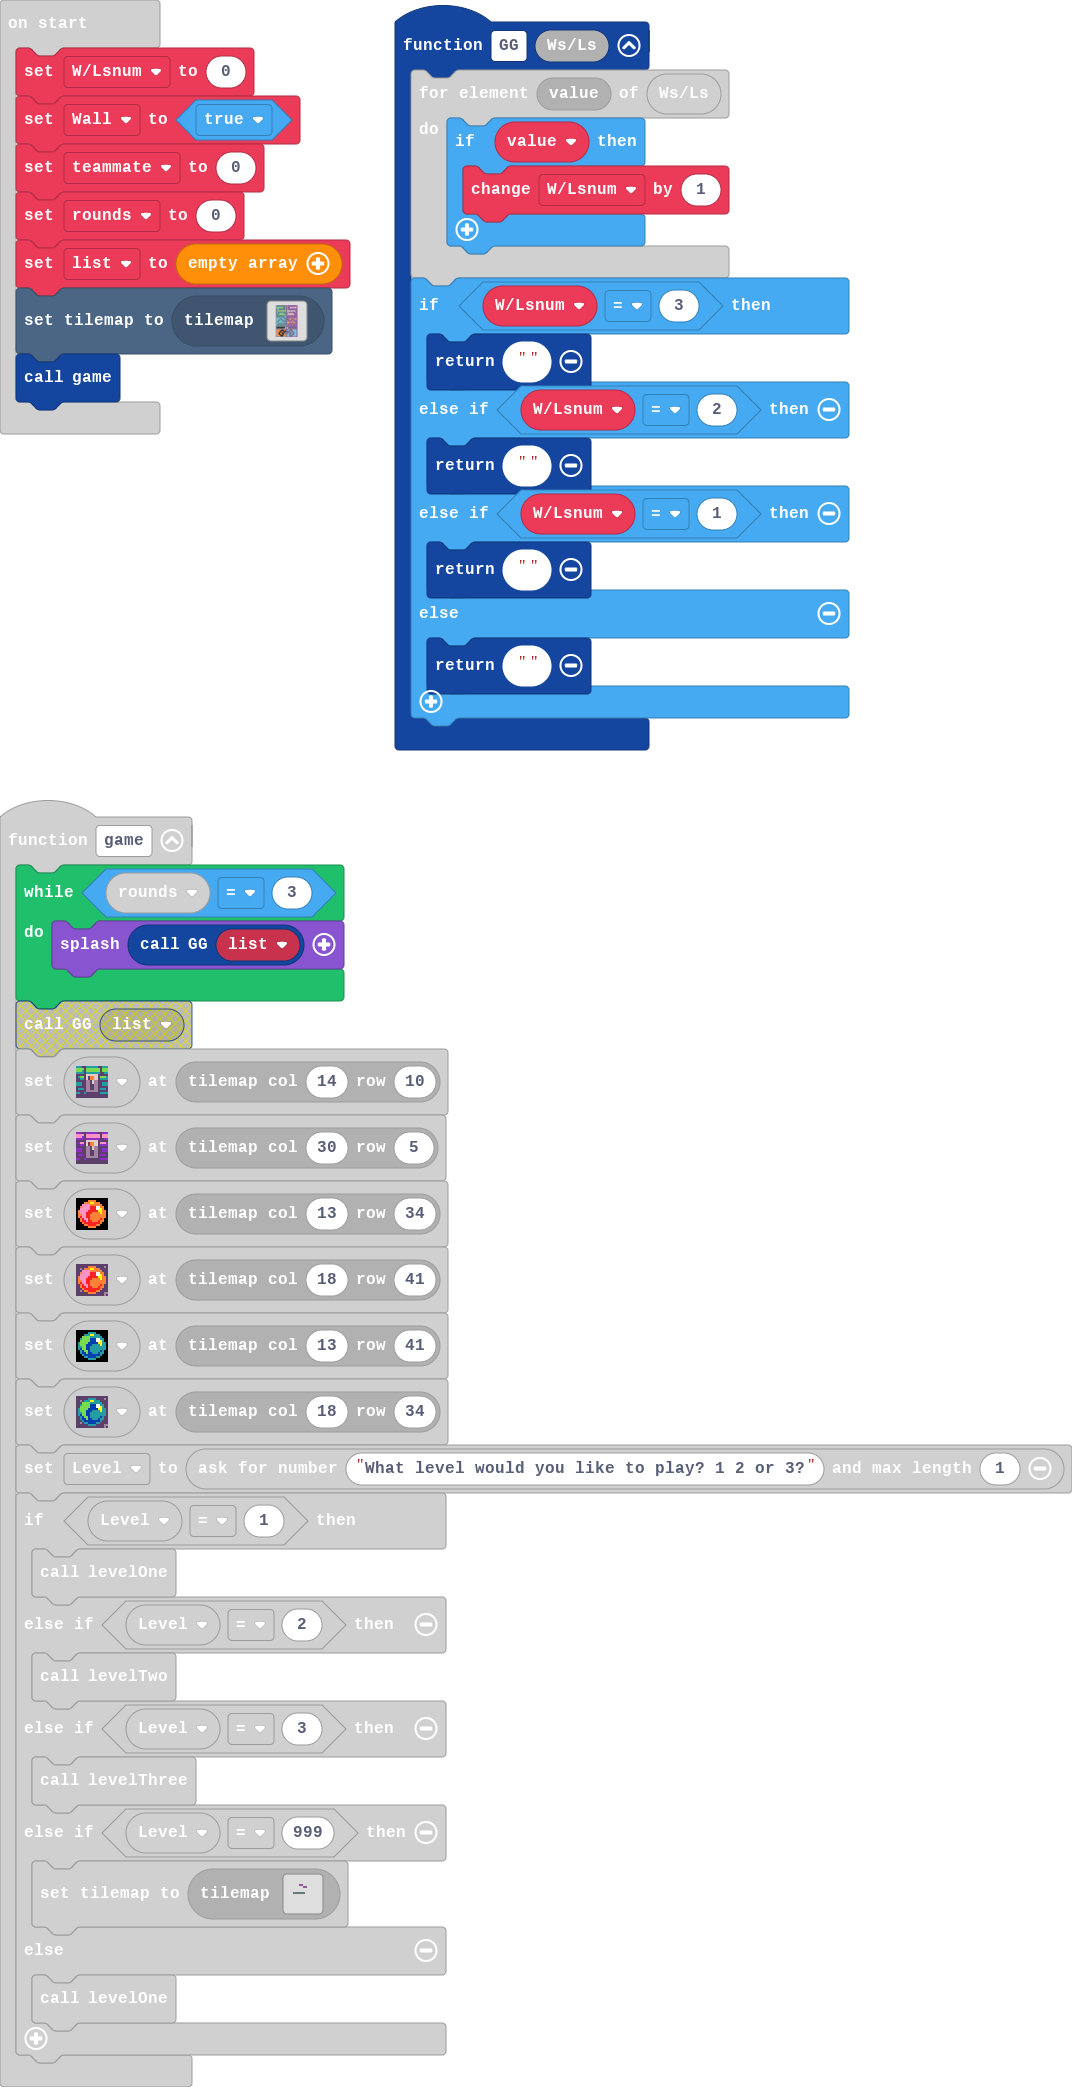
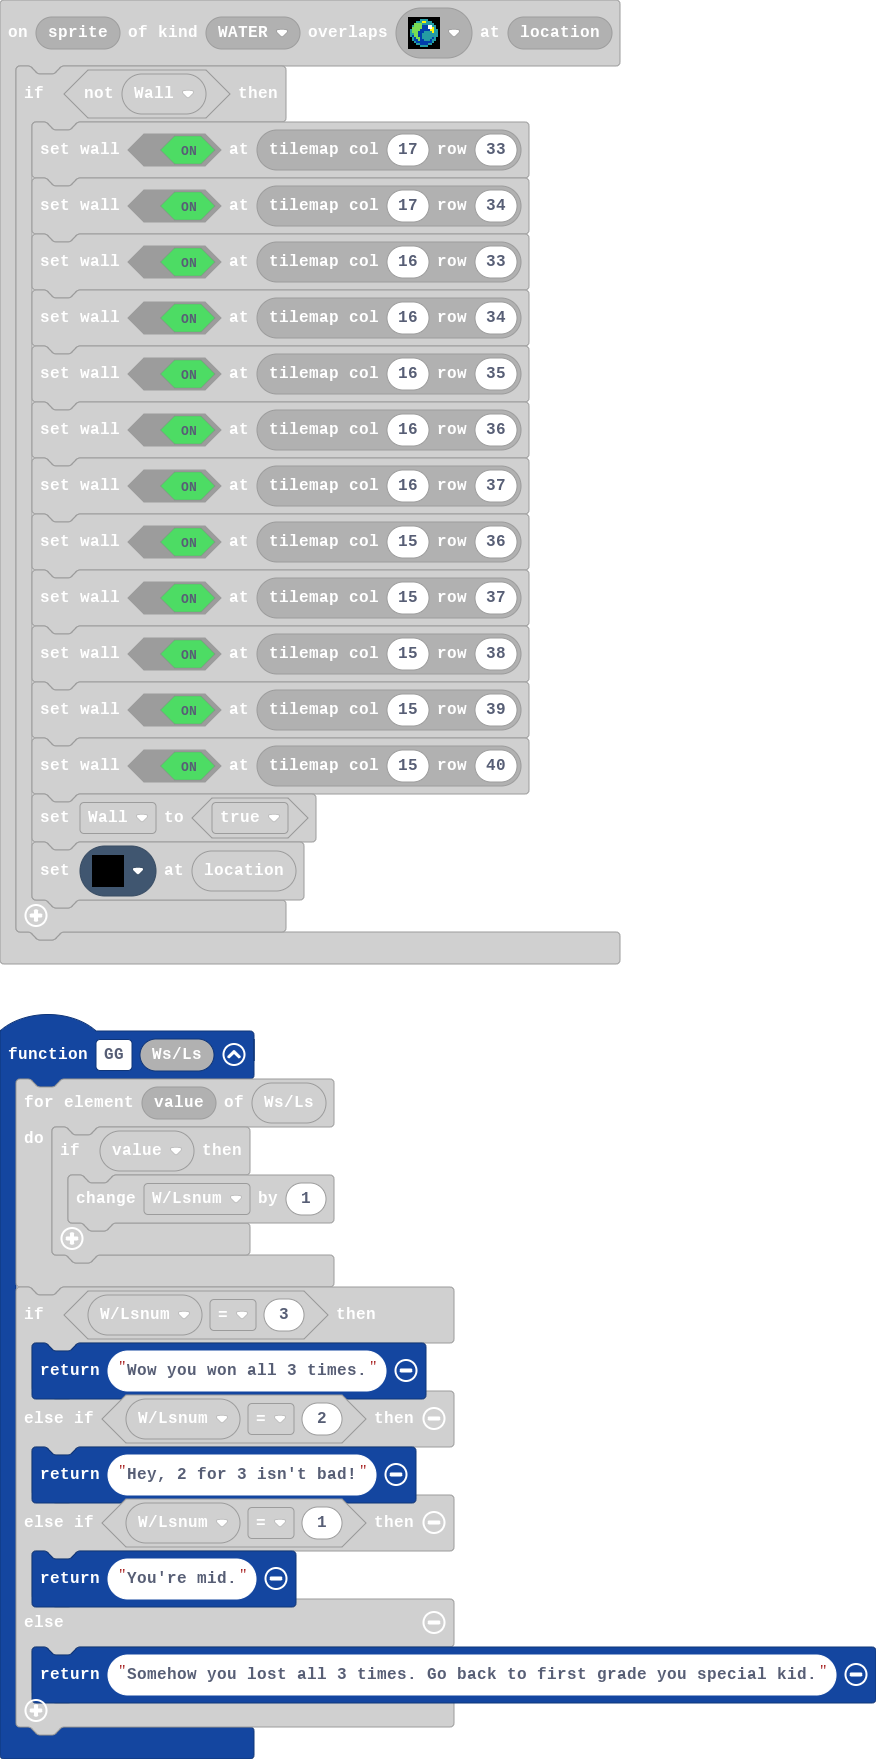
fixed some doodly doos

diff --git a/tilemap.g.ts b/tilemap.g.ts
@@ -243,57 +243,6 @@ namespace myTiles {
 . . . . . . . . . . . . . . . . 
 . . . . . . . . . . . . . . . . 
 `, [myTiles.transparency16], TileScale.Sixteen);
-            case "level5":
[1 lines of base64/hex data omitted]
-22222222222222222222222222222222
-2..............22..............2
-2..............22..............2
-2222....222....22....222....2222
-22222222222....22....22222222222
-2..2...........22..............2
-2..2...........22..............2
-2..2...........22..............2
-2..22..22..2222222222..22..22..2
-2..22222222222222222222222222..2
-2..............22.2............2
-2..............22.2............2
-2.....2....2...22.2.2....2.....2
-2....22222222.2222222222222....2
-2...2222222222.22.2222222222...2
-22222222222222222222222222222222
-22222222222222222222222222222222
-...............22..............2
-...............22..............2
-.222222222.....22..2.........222
-.2.............22..2222222222222
-.2.............22..............2
-.2.....2.......22..............2
-.2....222......22..............2
-.2...22222.....22..............2
-.2..2222222....22...2222222222.2
-.2.22222222222222....222222222.2
-.2.............22............2.2
-.2.............22..............2
-...............22....2...2.....2
-...............22....2...2...2.2
-22222222222222222222222222222222
-22222222222222222222222222222222
-2.............2222.............2
-2.............2222.............2
-22222222222222222222222222222222
-22222222222222222222222222222222
-2............222222............2
-2..............22..............2
-2..............22..............2
-2..............22..............2
-2.............2222.............2
-2............222222............2
-2.......22...222222...22.......2
-2..............22..............2
-2..............22..............2
-2..............22..............2
-22222222222222222222222222222222
-`, [myTiles.transparency16,sprites.dungeon.greenOuterNorthWest,sprites.dungeon.greenOuterWest0,sprites.dungeon.greenOuterSouthEast,sprites.dungeon.greenOuterNorth0,sprites.dungeon.stairWest,sprites.dungeon.greenInnerSouthWest,sprites.skillmap.islandTile4,sprites.dungeon.greenOuterSouth0,sprites.dungeon.hazardWater,sprites.builtin.brick,sprites.dungeon.hazardLava0,sprites.dungeon.hazardLava1,sprites.dungeon.greenSwitchUp,sprites.dungeon.stairSouth,sprites.dungeon.greenOuterNorthEast,sprites.dungeon.greenOuterEast0,sprites.dungeon.greenOuterSouthWest,sprites.dungeon.purpleOuterNorthWest,sprites.dungeon.purpleOuterWest0,sprites.dungeon.purpleOuterSouthEast,sprites.dungeon.purpleOuterNorth1,sprites.dungeon.floorLight2,sprites.dungeon.purpleInnerNorthWest,sprites.dungeon.stairNorth,sprites.dungeon.purpleOuterSouth0,sprites.dungeon.stairEast,sprites.dungeon.purpleSwitchUp,sprites.dungeon.purpleOuterNorthEast,sprites.dungeon.purpleOuterEast0,sprites.dungeon.purpleOuterSouthWest,sprites.dungeon.collectibleInsignia,sprites.dungeon.floorDark0,myTiles.tile2,myTiles.tile3,myTiles.tile4,myTiles.tile5,sprites.dungeon.greenOuterWest1,sprites.builtin.forestTiles10,sprites.builtin.oceanDepths0,sprites.dungeon.purpleOuterWest1,sprites.dungeon.purpleOuterNorth0,sprites.dungeon.darkGroundNorthWest1,sprites.dungeon.purpleOuterSouth1,sprites.builtin.forestTiles5,sprites.dungeon.darkGroundNorthEast0,sprites.dungeon.greenInnerNorthWest,sprites.dungeon.purpleInnerNorthEast], TileScale.Sixteen);
             case "level14":
             case "level14":return tiles.createTilemap(hex`1000100000000000000000000000000000000000000000000000000000000000000000000000000000000000000000000000000000000000000000000000000000000000000000000000000000000000000000000000000000000000000000000000000000000000000000000000000000000000000000000000000000000000000000000000000000000000000000000000000000000000000000000000000000000000000000000000000000000000000000000000000000000000000000000000000000000000000000000000000000000000000000000000000000000000000000000000000000000000000000000000000000000000000000000000000000000000`, img`
 . . . . . . . . . . . . . . . . 
@@ -408,6 +357,57 @@ namespace myTiles {
 . . . . . . . . . . . . . . . . 
 . . . . . . . . . . . . . . . . 
 `, [myTiles.transparency16], TileScale.Sixteen);
+            case "level5":
[1 lines of base64/hex data omitted]
+22222222222222222222222222222222
+2..............22..............2
+2..............22..............2
+2222....222....22....222....2222
+22222222222....22....22222222222
+2..2...........22..............2
+2..2...........22..............2
+2..2...........22..............2
+2..22..22..2222222222..22..22..2
+2..22222222222222222222222222..2
+2..............22.2............2
+2..............22.2............2
+2.....2....2...22.2.2....2.....2
+2....22222222.2222222222222....2
+2...2222222222.22.2222222222...2
+22222222222222222222222222222222
+22222222222222222222222222222222
+...............22..............2
+...............22..............2
+.222222222.....22..2.........222
+.2.............22..2222222222222
+.2.............22..............2
+.2.....2.......22..............2
+.2....222......22..............2
+.2...22222.....22..............2
+.2..2222222....22...2222222222.2
+.2.22222222222222....222222222.2
+.2.............22............2.2
+.2.............22..............2
+...............22....2...2.....2
+...............22....2...2...2.2
+22222222222222222222222222222222
+22222222222222222222222222222222
+2.............2222.............2
+2.............2222.............2
+22222222222222222222222222222222
+22222222222222222222222222222222
+2............222222............2
+2..............22..............2
+2..............22..............2
+2..............22..............2
+2.............2222.............2
+2............222222............2
+2.......22...222222...22.......2
+2..............22..............2
+2..............22..............2
+2..............22..............2
+22222222222222222222222222222222
+`, [myTiles.transparency16,sprites.dungeon.greenOuterNorthWest,sprites.dungeon.greenOuterWest0,sprites.dungeon.greenOuterSouthEast,sprites.dungeon.greenOuterNorth0,sprites.dungeon.stairWest,sprites.dungeon.greenInnerSouthWest,sprites.skillmap.islandTile4,sprites.dungeon.greenOuterSouth0,sprites.dungeon.hazardWater,sprites.builtin.brick,sprites.dungeon.hazardLava0,sprites.dungeon.greenSwitchUp,sprites.dungeon.stairSouth,sprites.dungeon.greenOuterNorthEast,sprites.dungeon.greenOuterEast0,sprites.dungeon.greenOuterSouthWest,sprites.dungeon.purpleOuterNorthWest,sprites.dungeon.purpleOuterWest0,sprites.dungeon.purpleOuterSouthEast,sprites.dungeon.purpleOuterNorth1,sprites.dungeon.floorLight2,sprites.dungeon.purpleInnerNorthWest,sprites.dungeon.stairNorth,sprites.dungeon.purpleOuterSouth0,sprites.dungeon.stairEast,sprites.dungeon.purpleSwitchUp,sprites.dungeon.purpleOuterNorthEast,sprites.dungeon.purpleOuterEast0,sprites.dungeon.purpleOuterSouthWest,sprites.dungeon.collectibleInsignia,sprites.dungeon.floorDark0,myTiles.tile2,myTiles.tile3,myTiles.tile4,myTiles.tile5,sprites.dungeon.greenOuterWest1,sprites.builtin.forestTiles10,sprites.builtin.oceanDepths0,sprites.dungeon.purpleOuterWest1,sprites.dungeon.purpleOuterNorth0,sprites.dungeon.darkGroundNorthWest1,sprites.dungeon.purpleOuterSouth1,sprites.builtin.forestTiles5,sprites.dungeon.darkGroundNorthEast0,sprites.dungeon.greenInnerNorthWest,sprites.dungeon.purpleInnerNorthEast], TileScale.Sixteen);
         }
         return null;
     })

diff --git a/main.ts b/main.ts
@@ -17,7 +17,7 @@ scene.onOverlapTile(SpriteKind.WATER, assets.tile`tile3`, function (sprite, loca
         tiles.setWallAt(tiles.getTileLocation(15, 39), true)
         tiles.setWallAt(tiles.getTileLocation(15, 40), true)
         Wall = true
-        tiles.setTileAt(location, sprites.dungeon.darkGroundNorthWest1)
+        tiles.setTileAt(location, sprites.builtin.forestTiles10)
     }
 })
 scene.onOverlapTile(SpriteKind.FIRE, sprites.dungeon.greenSwitchUp, function (sprite, location) {
@@ -104,7 +104,7 @@ function keymapping () {
     MakeyMakey.MakeyMakeyKey.A,
     MakeyMakey.MakeyMakeyKey.D,
     MakeyMakey.MakeyMakeyKey.F,
-    MakeyMakey.MakeyMakeyKey.RIGHT_CLICK
+    MakeyMakey.MakeyMakeyKey.G
     )
     MakeyMakey.setSimulatorKeymap(
     MakeyMakey.PlayerNumber.TWO,
@@ -310,13 +310,13 @@ function GG (WsLs: any[]) {
         }
     }
     if (WLsnum == 3) {
-        return ""
+        return "Wow you won all 3 times."
     } else if (WLsnum == 2) {
-        return ""
+        return "Hey, 2 for 3 isn't bad!"
     } else if (WLsnum == 1) {
-        return ""
+        return "You're mid."
     } else {
-        return ""
+        return "Somehow you lost all 3 times. Go back to first grade you special kid."
     }
 }
 scene.onOverlapTile(SpriteKind.WATER, assets.tile`tile4`, function (sprite, location) {
@@ -384,3 +384,4 @@ rounds = 0
 list = []
 tiles.setCurrentTilemap(tilemap`level5`)
 game2()
+keymapping()
